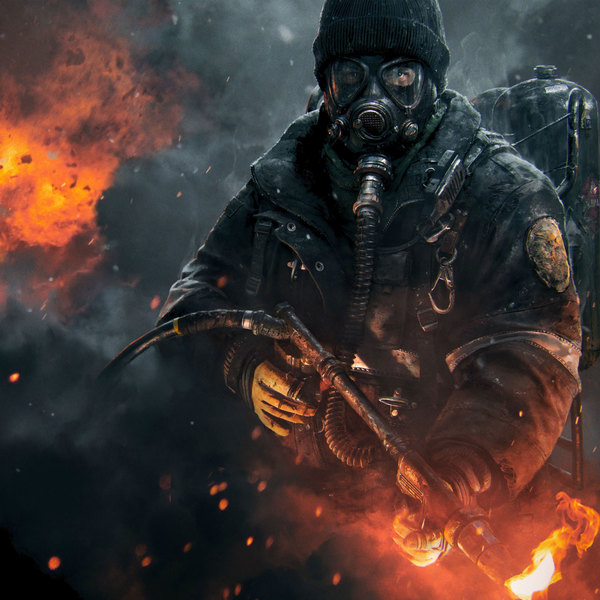
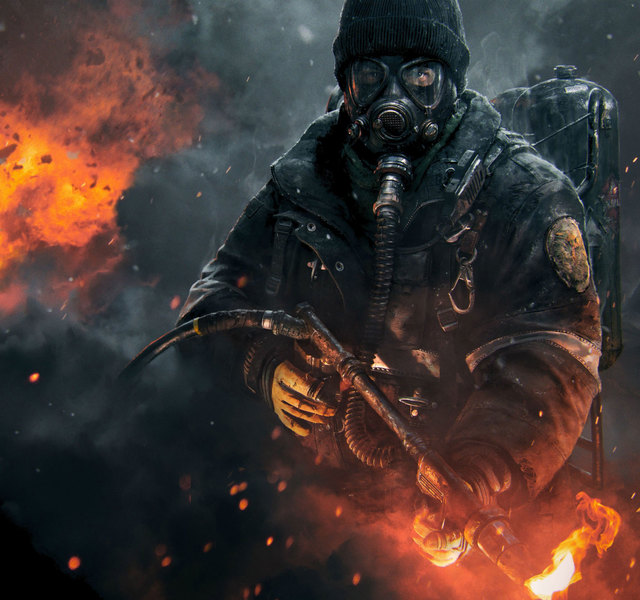
styling using bootstrap

diff --git a/app/assets/stylesheets/application.scss b/app/assets/stylesheets/application.scss
@@ -1,63 +1,80 @@
-/*
- *= require_self
- */
-body {
-    font-family: "Proxima Nova";
-    font-weight: 100;
+@import "bootstrap-sprockets";
+@import "bootstrap"; 
+
+body {  
+  background-color: #fafafa;
+  font-family: proxima-nova, 'Helvetica Neue', Arial, Helvetica, sans-serif;
 }
 
-h1, h2, h3, h4, h5, h6 {
-    font-weight: 100;
+.navbar-brand {
+  a {
+    color: #125688;
+  }
 }
 
-.wrapper {
-    width: 80%;
-    margin: 0 auto;
+.navbar-default {
+  background-color: #fff;
+  height: 54px;
+  .navbar-nav li a {
+    color: #125688;
+  }
 }
 
-.clearfix:before, .clearfix:after {
-    content: " ";
-    display: table;
+.navbar-container {
+  width: 640px;
+  margin: 0 auto;
 }
 
-.clearfix:after {
-    clear: both;
+.posts-wrapper {
+  padding-top: 40px;
+  margin: 0 auto;
+  max-width: 642px;
+  width: 100%;
 }
 
-.button {
-    border: 1px solid #9B9B9B;
-    padding: .7rem 1.25rem;
-    border-radius: .3rem;
-    outline: none;
-    background: white;
-    color: #9B9B9B;
+.post {
+  background-color: #fff;
+  border-color: #edeeee;
+  border-style: solid;
+  border-radius: 3px;
+  border-width: 1px;
+  margin-bottom: 60px;
 }
 
-header {
-    width: 100%;
-    padding: 2rem 0;
-    border-bottom: 1px solid #E4E4E4;
-    #logo {
-        float: left;
-        font-size: 1.75rem;
-        a {
-            color: #333233;
-            text-decoration: none;
-            &:hover {
-                color: #50A7C7;
-            }
-        }
-    }
-    nav {
-        float: right;
-        a {
-            margin-left: 1.5rem;
-            line-height: 2;
-            color: #9B9B9B;
-            text-decoration: none;
-            &:hover {
-                color: #50A7C7;
-            }
-        }
-    }
+.post-head {
+  height: 64px;
+  padding: 14px 20px;
+  color: #125688;
+  font-size: 15px;
+  line-height: 18px;
+  .thumbnail {}
+  .name {
+    display: block;
+  }
+}
+
+.image {
+  border-bottom: 1px solid #eeefef;
+  border-top: 1px solid #eeefef;
+}
+
+.description {
+  padding: 24px 24px;
+  font-size: 15px;
+  line-height: 18px;
+
+}
+
+.form-wrapper {
+  width: 60%;
+  margin: 20px auto;
+  background-color: #fff;
+  padding: 40px;
+  border: 1px solid #eeefef;
+  border-radius: 3px;
+}
+
+.edit-links {
+  margin-top: 20px;
+  margin-bottom: 40px;
 }

diff --git a/app/assets/stylesheets/posts.scss b/app/assets/stylesheets/posts.scss
@@ -1,3 +1,23 @@
 // Place all the styles related to the Posts controller here.
 // They will automatically be included in application.css.
 // You can use Sass (SCSS) here: http://sass-lang.com/
+#posts {
+
+    .post {
+        border: 1px solid #9B9B9B;
+        .post_header {
+            .username {
+                float:left;
+            }
+            .post_time {
+                float:right;
+            }
+        }
+        .post_image {
+        
+        }
+        .post_content {
+
+        }
+    }
+}

diff --git a/app/assets/stylesheets/users.scss b/app/assets/stylesheets/users.scss
@@ -1,0 +1,3 @@
+// Place all the styles related to the Users controller here.
+// They will automatically be included in application.css.
+// You can use Sass (SCSS) here: http://sass-lang.com/

diff --git a/app/controllers/posts_controller.rb b/app/controllers/posts_controller.rb
@@ -1,5 +1,5 @@
 class PostsController < ApplicationController
-    before_action :find_post, only: [:show, :edit, :destroy, :update, :like, :unlike]
+    before_action :find_post, only: [:show, :edit, :destroy, :update]
     before_action :authenticate_user!, except: [:index, :show]
 
     def index
@@ -13,8 +13,10 @@ class PostsController < ApplicationController
     def create
         @post = current_user.posts.build(post_params)
         if @post.save
+            flash[:success] = "Your post has been created!"
             redirect_to @post 
         else 
+            flash.now[:alert] = "Your new post couldn't be created!  Please check the form."
             render 'new'
         end
     end 
@@ -28,8 +30,10 @@ class PostsController < ApplicationController
 
     def update
         if @post.update(post_params)
+            flash[:success] = "Post updated."
             redirect_to @post
         else
+            flash.now[:alert] = "Update failed.  Please check the form."
             render 'edit'
         end
     end

diff --git a/app/models/post.rb b/app/models/post.rb
@@ -1,6 +1,6 @@
 class Post < ApplicationRecord
     belongs_to :user
     has_many :comments
-    has_attached_file :image, styles: { medium: "600x600#", small: "300x300#" }
+    has_attached_file :image, styles: { medium: "640x600#", small: "300x300#" }
     validates_attachment_content_type :image, content_type: /\Aimage\/.*\Z/
 end

diff --git a/app/helpers/application_helper.rb b/app/helpers/application_helper.rb
@@ -1,2 +1,9 @@
 module ApplicationHelper
+    def alert_for(flash_type)
+        { success: 'alert-success',
+            error: 'alert-danger',
+            alert: 'alert-warning',
+            notice: 'alert-info'
+        }[flash_type.to_sym] || flash_type.to_s 
+    end
 end

diff --git a/test/controllers/users_controller_test.rb b/test/controllers/users_controller_test.rb
@@ -1,0 +1,7 @@
+require 'test_helper'
+
+class UsersControllerTest < ActionDispatch::IntegrationTest
+  # test "the truth" do
+  #   assert true
+  # end
+end

diff --git a/app/helpers/users_helper.rb b/app/helpers/users_helper.rb
@@ -1,0 +1,2 @@
+module UsersHelper
+end
